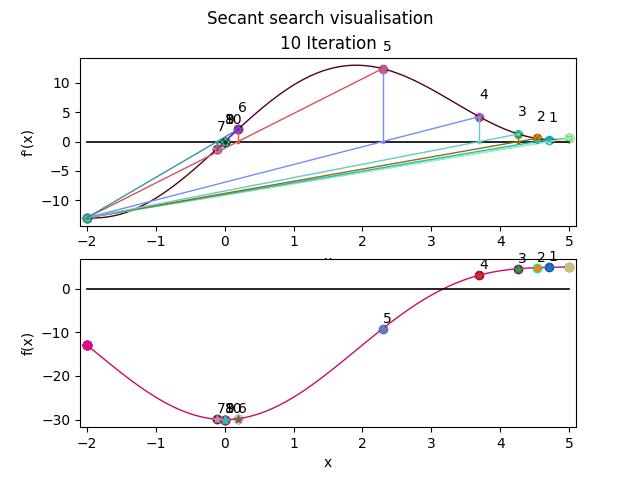
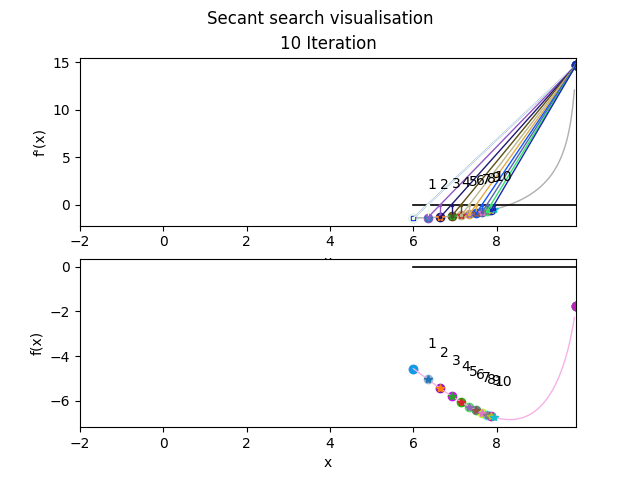
ssearch

diff --git a/13_secant/ssearch.py b/13_secant/ssearch.py
@@ -4,9 +4,63 @@ matplotlib.use('Agg')
 import matplotlib.pyplot as plt
 import random
 
+'''
 def f(x):    return x**2 - 10*np.cos(0.3*np.pi*x) - 20
 
 def df(x):    return 2*x + 3*np.pi*np.sin(0.3*np.pi*x)
+'''
+
+#здесь нужно ставить интервал (6,9.9) иначе минимум не найдется
+def f(x):
+    return -2 * np.sin(np.sqrt(abs(x / 2 + 10))) - x * np.sin(np.sqrt(abs(x - 10)))
+
+def df(x):
+    """
+    Аналитическая производная f1(x).
+    Не определена в x = -20 и x = 10 (особые точки из-за abs).
+    Возвращает вещественное число; в особых точках — приближение.
+    """
+    eps = 1e-15  # порог для избежания деления на ноль
+
+    # Часть 1: d/dx [ -2 * sin(sqrt(|x/2 + 10|)) ]
+    u = x / 2 + 10
+    abs_u = abs(u)
+    if abs_u < eps:
+        term1 = 0.0  # или np.nan — но 0 безопаснее для численных методов
+    else:
+        sign_u = np.sign(u)
+        sqrt_abs_u = np.sqrt(abs_u)
+        term1 = -2 * np.cos(sqrt_abs_u) * (sign_u / 4) / sqrt_abs_u
+        # Обоснование: d/dx sqrt(|u|) = (1/(2*sqrt(|u|))) * sign(u) * du/dx,
+        # где du/dx = 1/2 → итого: sign(u) / (4 * sqrt(|u|))
+
+    # Часть 2: d/dx [ -x * sin(sqrt(|x - 10|)) ] = -sin(...) - x * cos(...) * d/dx[sqrt(|x-10|)]
+    v = x - 10
+    abs_v = abs(v)
+    if abs_v < eps:
+        # При v ≈ 0: sqrt(|v|) ≈ 0, sin(0)=0, cos(0)=1, но производная sqrt(|v|) → ∞
+        # Однако множитель x * ... может компенсировать? Лучше использовать предел.
+        # Практически: ставим 0 или игнорируем особую точку.
+        term2 = -np.sin(0.0)  # = 0
+        term3 = 0.0
+    else:
+        sign_v = np.sign(v)
+        sqrt_abs_v = np.sqrt(abs_v)
+        term2 = -np.sin(sqrt_abs_v)
+        term3 = -x * np.cos(sqrt_abs_v) * (sign_v / (2 * sqrt_abs_v))
+
+    return term1 + term2 + term3
+
+#тут можно нормально ставить (-2,9.9)
+def f2(x):
+    return x ** 2 - 10 * np.cos(0.5 * np.pi * x) - 110
+
+def df2(x):
+    """
+    Аналитическая производная f2(x) = x^2 - 10*cos(0.5*pi*x) - 110.
+    f2'(x) = 2x + 5*pi*sin(0.5*pi*x)
+    """
+    return 2 * x + 5 * np.pi * np.sin(0.5 * np.pi * x)
 
 def ssearch(interval, tol):
     a, b = interval
@@ -52,7 +106,7 @@ def drawdf(a, b, h, ax1):
     ax1.plot([a, b], [0, 0], c=(0, 0, 0), lw=1.2)
     color = (random.random(), random.random(), random.random())
     ax1.plot([a, b], [df(a), df(b)], marker='s', ms=3, c=color, lw=1)
-    ax1.set_xlim([-2.1, 5.1])
+    ax1.set_xlim([-2.0, 9.9])
 
 
 def drawf(a, b, h, ax2):
@@ -67,7 +121,7 @@ def drawf(a, b, h, ax2):
     ax2.set_ylabel("f(x)")
 
     ax2.plot([a, b], [0, 0], c=(0, 0, 0), lw=1.2)
-    ax2.set_xlim([-2.1, 5.1])
+    ax2.set_xlim([-2.0, 9.9])
 
 
 def drawpointsDF(coord, ax1, i):
@@ -126,8 +180,8 @@ def secantsearchsecants(coords, interval):
 
 def main():
     print("Find:")
-    interval = [-2, 5]
-    tol = 1e-6
+    interval = [6, 9.9]
+    tol = 1e-5
     [xmin, f, neval, coords] = ssearch(interval,tol)
     print([xmin, f, neval])
     secantsearchsecants(coords, interval)
